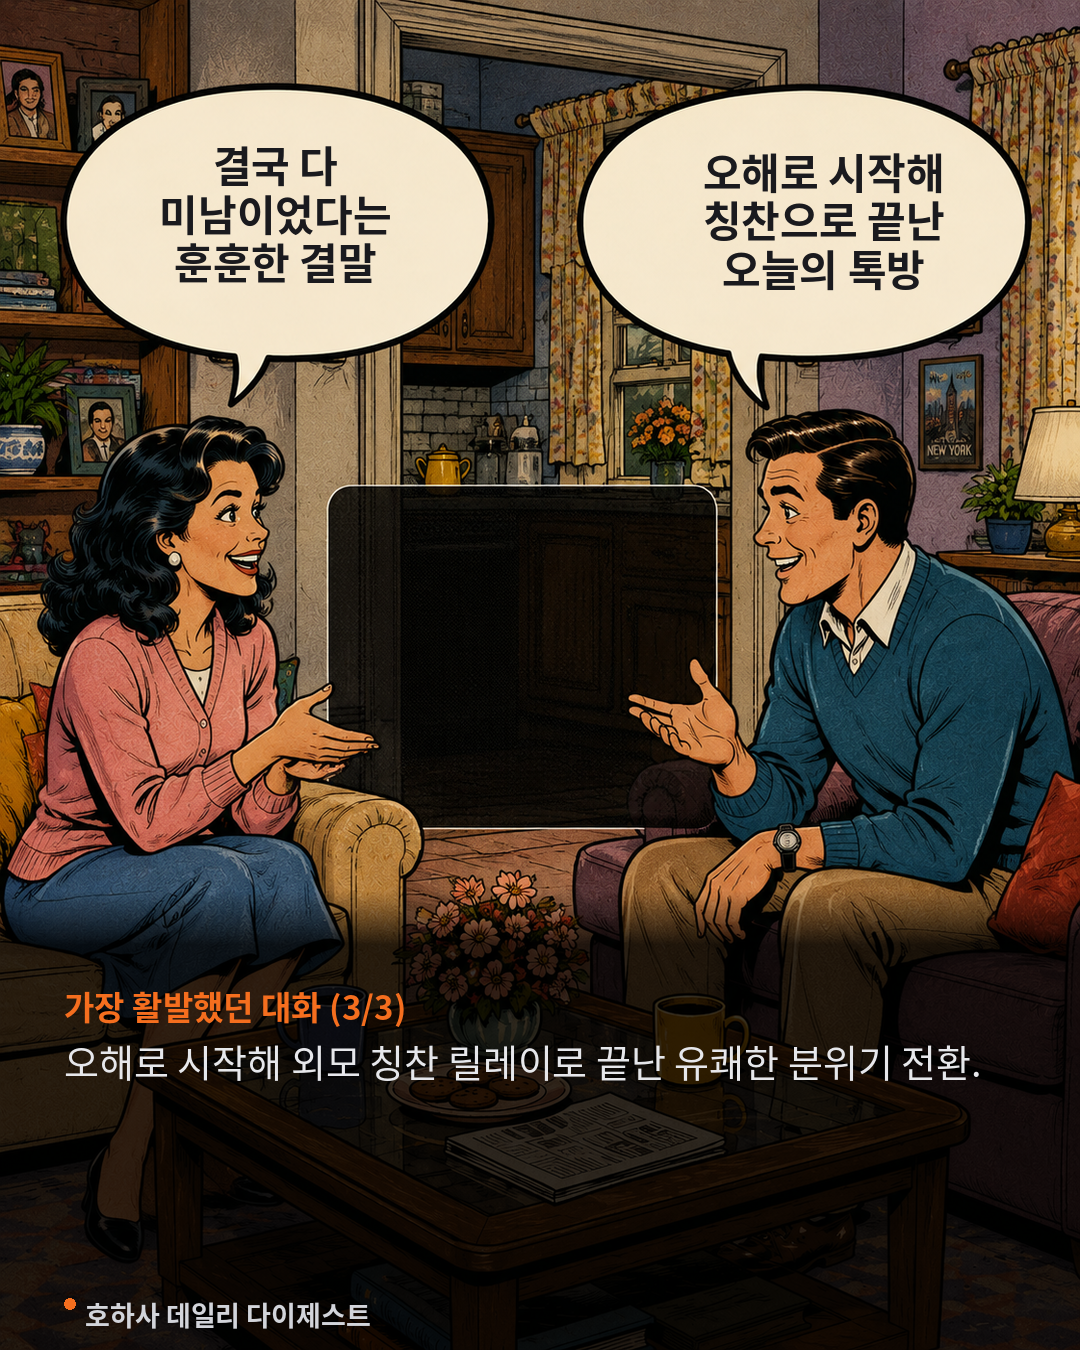
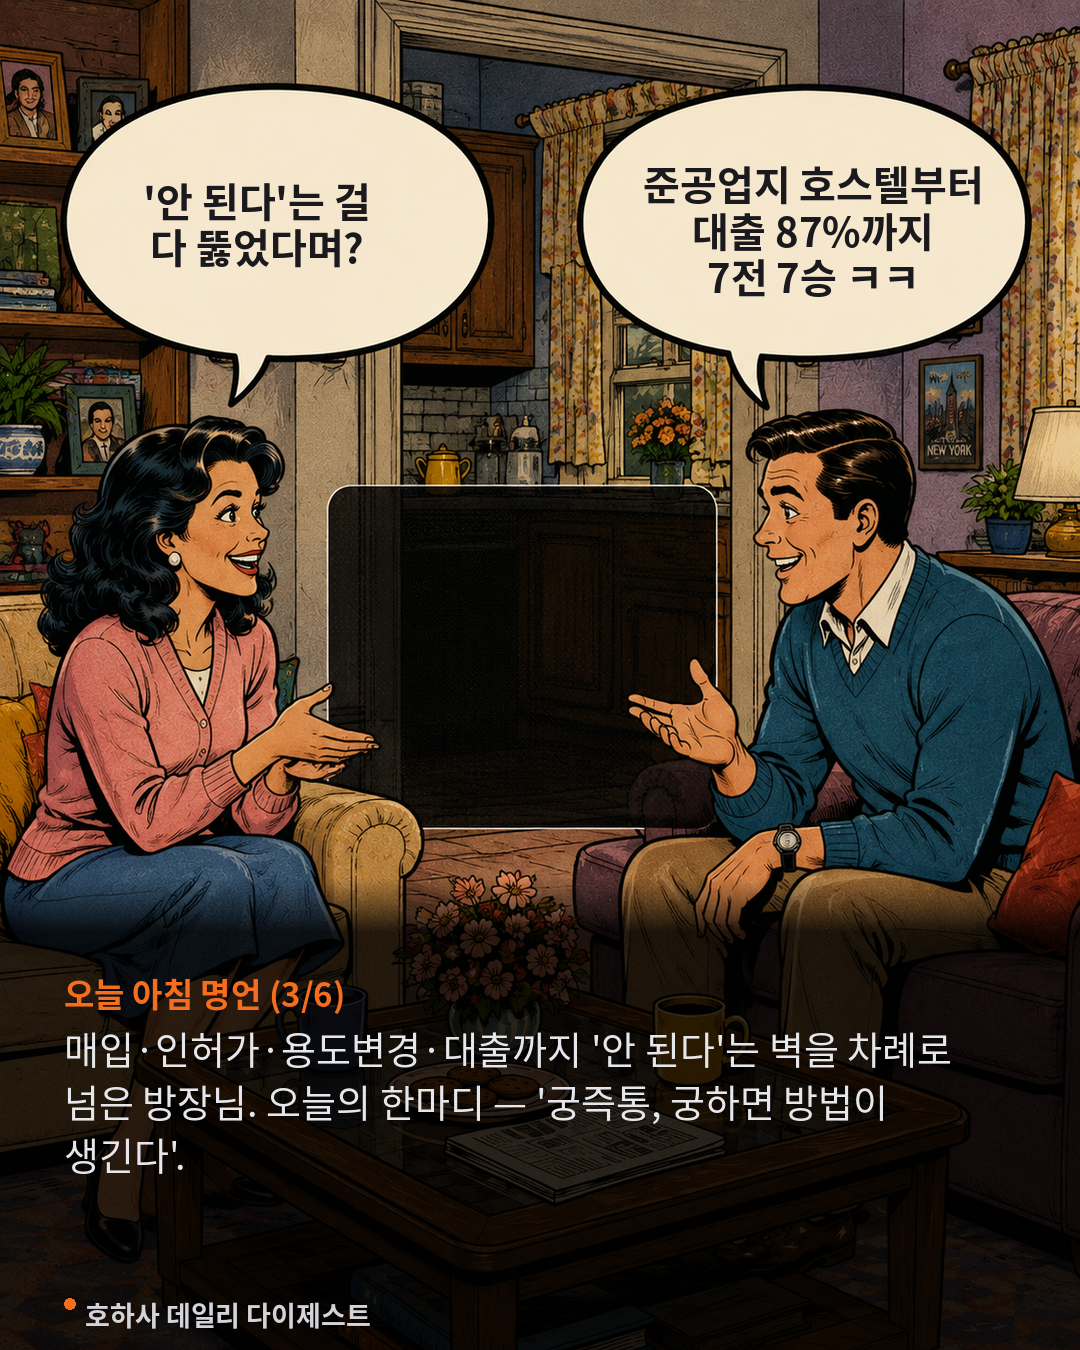
Add files via upload

diff --git a/index.html b/index.html
@@ -71,7 +71,7 @@
 <body>
   <div class="topbar">
     <div class="brand"><span class="dot"></span><span>호하사 포켓 카툰</span></div>
-    <div class="date">2026.07.24</div>
+    <div class="date">2026.08.21</div>
   </div>
 
   <div class="stage">
@@ -96,7 +96,7 @@
 
 <script>
   // 페이지 목록: 0번은 항상 커버, 이후 대화 카드
-  const PAGES = ["cards/00_cover.png", "cards/01.png", "cards/02.png", "cards/03.png"];
+  const PAGES = ["cards/00_cover.png", "cards/01.png", "cards/02.png", "cards/03.png", "cards/04.png", "cards/05.png", "cards/06.png"];
   let cur = 0, busy = false;
 
   const book = document.getElementById('book');
